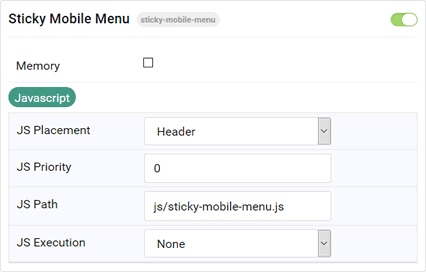
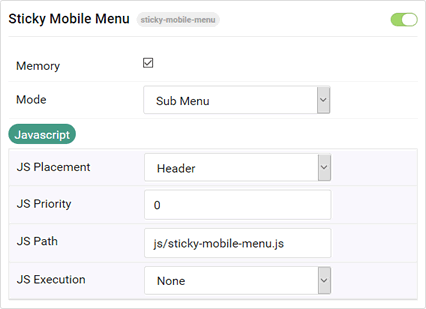
include mode option, error checking, prep. v1.0.2

diff --git a/src/js/sticky-mobile-menu.js b/src/js/sticky-mobile-menu.js
@@ -41,9 +41,9 @@ function StickyMobileMenu(events) {
     /* Offcanvas Opening */ 
     this.getToggleEvent = function (config){
         return function(){
-            var lowest = 0;
-            var $deepestItem;
-            var $activeItem;  
+            var lowest = 0, highest = Number.MAX_VALUE;
+            var $deepestItem, $highestItem;
+            var $activeItems, $activeItem;  
             var cSel = config.selectors;
             var cCls = config.classes;
             
@@ -52,32 +52,40 @@ function StickyMobileMenu(events) {
             else if(!this.toggleClicked)
                 this.toggleClicked = true;
             
-            $activeItem = jQuery(cSel.iaMenu);
-            $activeItem.each(function() {
+            $activeItems = jQuery(cSel.iaMenu);
+            $activeItems.each(function() {
                 var depth = jQuery(this).parents().length;
                 if (depth > lowest) {
                     $deepestItem = jQuery(this);
                     lowest = depth;
                 }
+                if(depth < highest){
+                    $highestItem = jQuery(this);
+                    highest = depth;
+                }
             });
+            
+            
+            var $activeItem = (StickyMobileMenu.mode == 1) ? $deepestItem : $highestItem;
+            if($activeItem.length){
+                var $ddcMatch = $activeItem.parents(cSel.ddc).first()
+                var $topLevel = $ddcMatch.parents(cSel.tMenu).first();
+                var $subLevels = $ddcMatch.parents(cSel.sMenu);
+                var $menuItems = $ddcMatch.parents(cSel.iMenu);
+                var $dropDowns = $ddcMatch.parents(cSel.dd);
 
-            var $ddcMatch = $deepestItem.parents(cSel.ddc).first()
-            var $topLevel = $ddcMatch.parents(cSel.tMenu).first();
-            var $subLevels = $ddcMatch.parents(cSel.sMenu);
-            var $menuItems = $ddcMatch.parents(cSel.iMenu);
-            var $dropDowns = $ddcMatch.parents(cSel.dd);
+                jQuery(config.mmSelector(cSel.slide)).removeClass(cCls.slide);
+                jQuery(config.mmSelector(cSel.sel)).removeClass(cCls.sel);
+                jQuery(config.mmSelector(cSel.ac)).removeClass(cCls.ac);
 
-            jQuery(config.mmSelector(cSel.slide)).removeClass(cCls.slide);
-            jQuery(config.mmSelector(cSel.sel)).removeClass(cCls.sel);
-            jQuery(config.mmSelector(cSel.ac)).removeClass(cCls.ac);
+                $topLevel.addClass(cCls.slide);
+                if($subLevels.length > 0)
+                    $subLevels.addClass(cCls.slide);
 
-            $topLevel.addClass(cCls.slide);
-            if($subLevels.length > 0)
-                $subLevels.addClass(cCls.slide);
-
-            $menuItems.addClass(cCls.sel);
-            $dropDowns.removeClass(cCls.inac);
-            $dropDowns.addClass(cCls.ac);
+                $menuItems.addClass(cCls.sel);
+                $dropDowns.removeClass(cCls.inac);
+                $dropDowns.addClass(cCls.ac);
+            }
         };
     };
     

diff --git a/README.md b/README.md
@@ -9,19 +9,19 @@ This project modifies the default mobile menu behavior of the Gantry templating 
 * Gantry Templating Framework and Theme
 
 ## Download
-Choose the correct download for your target platform. Joomla Plugin System supported for the Gantry themes - Helium and Hydrogen. The latest Atom version is **v1.0.1**.
+Choose the correct download for your target platform. Joomla Plugin System supported for the Gantry themes - Helium and Hydrogen. The latest Atom version is **v1.0.2**.
 ___
 **Default Atom:**
-[English](https://github.com/thexmanxyz/Sticky-Mobile-Menu-Gantry/releases/download/v1.0.1/smm.atom.only.EN.v1.0.1.zip) / [Italian](https://github.com/thexmanxyz/Sticky-Mobile-Menu-Gantry/releases/download/v1.0.1/smm.atom.only.IT.v1.0.1.zip) / [German](https://github.com/thexmanxyz/Sticky-Mobile-Menu-Gantry/releases/download/v1.0.1/smm.atom.only.DE.v1.0.1.zip)
+[English](https://github.com/thexmanxyz/Sticky-Mobile-Menu-Gantry/releases/download/v1.0.2/smm.atom.only.EN.v1.0.2.zip) / [Italian](https://github.com/thexmanxyz/Sticky-Mobile-Menu-Gantry/releases/download/v1.0.2/smm.atom.only.IT.v1.0.2.zip) / [German](https://github.com/thexmanxyz/Sticky-Mobile-Menu-Gantry/releases/download/v1.0.2/smm.atom.only.DE.v1.0.2.zip)
 
 **Legacy Atom - Gantry <5.3.2:**
-[English](https://github.com/thexmanxyz/Sticky-Mobile-Menu-Gantry/releases/download/v1.0.1/smm.atom.only.legacy.EN.v1.0.1.zip) / [Italian](https://github.com/thexmanxyz/Sticky-Mobile-Menu-Gantry/releases/download/v1.0.1/smm.atom.only.legacy.IT.v1.0.1.zip) / [German](https://github.com/thexmanxyz/Sticky-Mobile-Menu-Gantry/releases/download/v1.0.1/smm.atom.only.legacy.DE.v1.0.1.zip)
+[English](https://github.com/thexmanxyz/Sticky-Mobile-Menu-Gantry/releases/download/v1.0.2/smm.atom.only.legacy.EN.v1.0.2.zip) / [Italian](https://github.com/thexmanxyz/Sticky-Mobile-Menu-Gantry/releases/download/v1.0.2/smm.atom.only.legacy.IT.v1.0.2.zip) / [German](https://github.com/thexmanxyz/Sticky-Mobile-Menu-Gantry/releases/download/v1.0.2/smm.atom.only.legacy.DE.v1.0.2.zip)
 
 **Joomla Plugin - Hydrogen:**
-[English](https://github.com/thexmanxyz/Sticky-Mobile-Menu-Gantry/releases/download/v1.0.1/smm.j3.hydrogen.EN.v1.0.1.zip) / [Italian](https://github.com/thexmanxyz/Sticky-Mobile-Menu-Gantry/releases/download/v1.0.1/smm.j3.hydrogen.IT.v1.0.1.zip) / [German](https://github.com/thexmanxyz/Sticky-Mobile-Menu-Gantry/releases/download/v1.0.1/smm.j3.hydrogen.DE.v1.0.1.zip)
+[English](https://github.com/thexmanxyz/Sticky-Mobile-Menu-Gantry/releases/download/v1.0.2/smm.j3.hydrogen.EN.v1.0.2.zip) / [Italian](https://github.com/thexmanxyz/Sticky-Mobile-Menu-Gantry/releases/download/v1.0.2/smm.j3.hydrogen.IT.v1.0.2.zip) / [German](https://github.com/thexmanxyz/Sticky-Mobile-Menu-Gantry/releases/download/v1.0.2/smm.j3.hydrogen.DE.v1.0.2.zip)
 
 **Joomla Plugin - Helium:**
-[English](https://github.com/thexmanxyz/Sticky-Mobile-Menu-Gantry/releases/download/v1.0.1/smm.j3.helium.EN.v1.0.1.zip) / [Italian](https://github.com/thexmanxyz/Sticky-Mobile-Menu-Gantry/releases/download/v1.0.1/smm.j3.helium.IT.v1.0.1.zip) / [German](https://github.com/thexmanxyz/Sticky-Mobile-Menu-Gantry/releases/download/v1.0.1/smm.j3.helium.DE.v1.0.1.zip)
+[English](https://github.com/thexmanxyz/Sticky-Mobile-Menu-Gantry/releases/download/v1.0.2/smm.j3.helium.EN.v1.0.2.zip) / [Italian](https://github.com/thexmanxyz/Sticky-Mobile-Menu-Gantry/releases/download/v1.0.2/smm.j3.helium.IT.v1.0.2.zip) / [German](https://github.com/thexmanxyz/Sticky-Mobile-Menu-Gantry/releases/download/v1.0.2/smm.j3.helium.DE.v1.0.2.zip)
 ___
 
 ## Automatic Installation (Joomla only)
@@ -53,6 +53,7 @@ Please be aware that the template folder path varies in dependence of the used C
 
 ## Supported Parameters and Atom Options
 * Memorize Menu Selection
+* Switch between Top and Sub Menu Priority
 * JS Configuration
   * Remote or Local
   * Priority and Position (head or footer)
